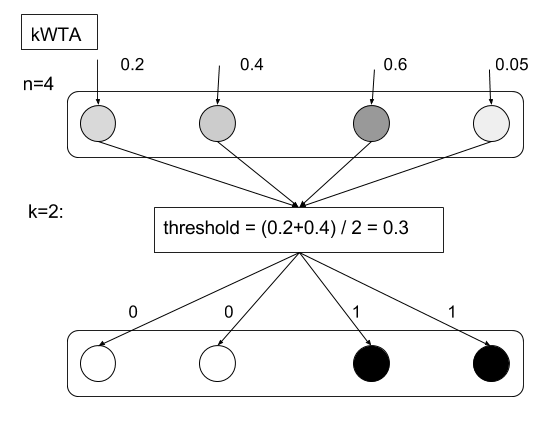
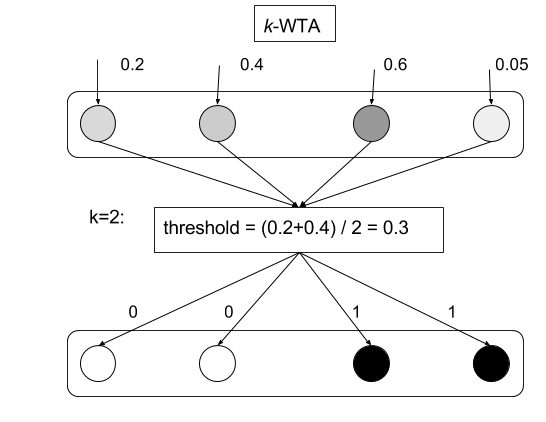
Refactored some captions, fixed synaptic cleft figure.

diff --git a/chapter2.tex b/chapter2.tex
@@ -32,7 +32,7 @@ Although this type of segmentation works well, it is still very similar to the f
 \section{Computational neuroscience}
 
 At the other end of the scale of neural networks, used to study emergent behaviour, we have computational neuroscience. In this discipline, Hebbian learning is often seen as the elected learning mechanism, particularly when it comes to the modeling of short-term memory, as it is generally regarded to be fairly biologically realistic, and results in fast convergence in the computational models (one-shot learning is possible, and sometimes occurs in the model which is outlined in chapter \ref{chpt:existing-models}). 
-Another aspect which may regarded as more biologically realistic is the algorithm k-winners-takes-all (kWTA), where the plausiblity arises from regarding it as implementing lateral inhibition. In biological networks, lateral inhibition may occur due to inhibitory neurons suppressing the activation of other neurons \citep{Rolls1998chpt1}; thus the term long-term depression. As for kWTA; the k-winners may be regarded as inhibiting the neighbouring neurons of the layer (though not necessarily in the long term). Note that the algorithmic approach diverges from the biological in that lateral inhibition may be arbitrary, and for a fixed number of k neurons in kWTA, whereas the brain is not likely to implement such a hard firing rate threshold (number k). Furthermore, depending on the implementation, activation values may be fixed, and possibly binary in the algorithmic approach of lateral inhibition; kWTA.
+Another aspect which may regarded as more biologically realistic is the algorithm k-winners-takes-all ($k$-WTA), where the plausiblity arises from regarding it as implementing lateral inhibition. In biological networks, lateral inhibition may occur due to inhibitory neurons suppressing the activation of other neurons \citep{Rolls1998chpt1}; thus the term long-term depression. As for $k$-WTA; the k-winners may be regarded as inhibiting the neighbouring neurons of the layer (though not necessarily in the long term). Note that the algorithmic approach diverges from the biological in that lateral inhibition may be arbitrary, and for a fixed number of k neurons in $k$-WTA, whereas the brain is not likely to implement such a hard firing rate threshold (number k). Furthermore, depending on the implementation, activation values may be fixed, and possibly binary in the algorithmic approach of lateral inhibition; $k$-WTA.
 
 %\subsection{Background}
 While it is assumed that the reader is familiar with neural networks within AI, it is not assumed that the reader has any prior knowledge within neuroscience. Therefore I will present an overview of the neuroscientific concepts used in this thesis, with the aim of sufficiently covering the neuroscientific background knowledge that is used in this thesis.
@@ -53,8 +53,8 @@ From this short outline of synaptic communication, it is possible to see how bio
 
 \begin{figure}
     \centering
-    \includegraphics[width=12cm]{fig/synaptic-cleft.jpg}
-    \caption{Illustrating a synaptic cleft in which two neurons are connected. Note that the axon of one of the neurons has released neurotransmitters, which may either excite or inhibit the receiving neuron after these neurotransmitters have bound to the receptors of its dendrite.}
+    \includegraphics[width=12cm]{fig/synaptic-cleft}
+    \caption{Illustrating \textbf{a synaptic cleft} in which two neurons are connected. Note that the axon of one of the neurons has released neurotransmitters, which may either excite or inhibit the receiving neuron after these neurotransmitters have bound to the receptors of its dendrite.}
     \label{fig:synaptic-cleft}
 \end{figure}
 
@@ -90,11 +90,11 @@ Fourthly, the hippocampus has been found to back-project its activity from CA1 t
 % Outlined specifics of how the outlined hippocampal functions may be algorithmically attained and/or biologically occur AFTER presenting material on neural network computation in general?
 It may now begin to become clear to the reader how certain aspects of hippocampal function may be algorithmically described, and thus how certain aspects of cognition may emerge from implemented models. Furthermore, these aspects may then be analyzed both from a connectionist perspective with regarsd to cognition, and also with regards to the information processing capabilities that the emerging phenomena gives or may give rise to. A short outline has now been presented on how hippocampal functionality is connected to psychology and neuroscience. I will proceed to connect these aspects to computational modeling and algorithmics below.
 
-% Elaborate on kWTA and connect it to feature detection/discovery (and self-organization)? Redundance reduction?
+% Elaborate on $k$-WTA and connect it to feature detection/discovery (and self-organization)? Redundance reduction?
 % Discuss orthogonalization in terms of simplification and losing out on information. Diluted connectivity?
-% PCA bio. implausible, kWTA more realistic.
-One of the key components in the hippocampal neural processing as outlined by \cite{Hattori2014} in his model, is using kWTA in the layer-wise processing. He notes that kWTA seems to enable a much more sophisticated type of pattern-separation than ordinary transfer functions. This matches the observations and findings as outlined by \cite{Rolls1998chpt4, Rolls1998chpt6}. Namely that k-winners-takes-all will reduce overlap in that only the k most prominent units/neurons will dominate/inhibit the other neurons in a layer, and furthermore enable a more powerful separation of overlapping inputs. It should be emphasised that while kWTA may resemble lateral inhibition, selecting an arbitrary value for the parameter \textit{k}, quickly becomes biologically implausible. Therefore, computational models often rely on empirical studies of levels of activation within different brain regions in order to attain more realistic models. One example is the model which is outlined below, where \cite{Hattori2014}, building upon the work of \cite{Wakagi2008}, finds that selecting k such that the layer-wise firing rate in his hippocampal module corresponds to the biologically observed firing rates, interestingly significantly improves the model performance compared to other k-values. I would like to emphasise that selecting only k winners for a layer also leads to a quicker convergence and faster learning within the network, because weight updates may be performed only by the nodes which are deemed relevant with regard to the current pattern. In a sense, less "noise" from the other neurons is present, and a more clear correlation and possibly pattern association is likely to be present for the network to extract. This may enable a network to reduce the redundance during feature or pattern correlation extraction, both functioning as an orthogonalizer quite similarly to principal components analysis (PCA), which extracts the most principal components of a data-set - only that kWTA is more biologically realistic, and is able to perform a more separated type of extraction by activating different neurons.
-Lastly, it is worth mentioning that while kWTA may reduce overlap and separate inputs, it will also tend to result in similar patterns activating the same set of neurons. Therefore, kWTA may also be regarded as preprocessing which will categorize patterns into categories of similar types, \citep{Rolls1998chpt1}. In other words, while kWTA enables lots of interesting information processing capabilities, the reader should bear in mind that this does not imply that the approach is not prone to some aspects of simplification due to orthogonalization - i.e. a type of diluted connectivity when using kWTA due to reasons such as too complex input data, sub-optimal convergence due to the initial random weight configuration, or simply basins of attraction being too close to one another in space, leading to divergence or spurious pattern extraction.
+% PCA bio. implausible, $k$-WTA more realistic.
+One of the key components in the hippocampal neural processing as outlined by \cite{Hattori2014} in his model, is using $k$-WTA in the layer-wise processing. He notes that $k$-WTA seems to enable a much more sophisticated type of pattern-separation than ordinary transfer functions. This matches the observations and findings as outlined by \cite{Rolls1998chpt4, Rolls1998chpt6}. Namely that k-winners-takes-all will reduce overlap in that only the k most prominent units/neurons will dominate/inhibit the other neurons in a layer, and furthermore enable a more powerful separation of overlapping inputs. It should be emphasised that while $k$-WTA may resemble lateral inhibition, selecting an arbitrary value for the parameter \textit{k}, quickly becomes biologically implausible. Therefore, computational models often rely on empirical studies of levels of activation within different brain regions in order to attain more realistic models. One example is the model which is outlined below, where \cite{Hattori2014}, building upon the work of \cite{Wakagi2008}, finds that selecting k such that the layer-wise firing rate in his hippocampal module corresponds to the biologically observed firing rates, interestingly significantly improves the model performance compared to other k-values. I would like to emphasise that selecting only k winners for a layer also leads to a quicker convergence and faster learning within the network, because weight updates may be performed only by the nodes which are deemed relevant with regard to the current pattern. In a sense, less "noise" from the other neurons is present, and a more clear correlation and possibly pattern association is likely to be present for the network to extract. This may enable a network to reduce the redundance during feature or pattern correlation extraction, both functioning as an orthogonalizer quite similarly to principal components analysis (PCA), which extracts the most principal components of a data-set - only that $k$-WTA is more biologically realistic, and is able to perform a more separated type of extraction by activating different neurons.
+Lastly, it is worth mentioning that while $k$-WTA may reduce overlap and separate inputs, it will also tend to result in similar patterns activating the same set of neurons. Therefore, $k$-WTA may also be regarded as preprocessing which will categorize patterns into categories of similar types, \citep{Rolls1998chpt1}. In other words, while $k$-WTA enables lots of interesting information processing capabilities, the reader should bear in mind that this does not imply that the approach is not prone to some aspects of simplification due to orthogonalization - i.e. a type of diluted connectivity when using $k$-WTA due to reasons such as too complex input data, sub-optimal convergence due to the initial random weight configuration, or simply basins of attraction being too close to one another in space, leading to divergence or spurious pattern extraction.
 
 \begin{figure}
     \centering
@@ -126,7 +126,7 @@ This brings us toward the importance of other qualities that are present in hipp
 While the classic XOR-problem is a matter of linear separability, solvable by the introduction of non-linear transfer functions in FFBP ANNs, issues are not quite as trivial in connectionist hippocampus-models. When it comes to auto-associative memory, the forming of spurious basins of attraction (see figure \ref{fig:simple-basin}) in auto-associative networks may be addressed by qualities which are introduced by the hippocampus, and more specifically largely by the dentate granule cells of the dentate gyrus (DG), which project to cornu ammonis region 3 (CA3) (which is believed to constitute an auto-associative network in the HPC), both receiving projections from the entorhinal cortex (EC).
 
 The dentate granule cells of the DG have been empirically observed in the rat hippocampus to be nearly approximately a sevenfold relative to the number of pyramidal cells which project to it from the entorhinal cortex \citep{Rolls1998chpt6}. Furthermore, while the firing rate of the EC has been observed to be about 10 \%, the firing rate of the dentage granule cells have been observed to be approximately 1 \% \citep{Rolls1998chpt6}.
-Largely due to these facts, it is hypothesized that the role of these cells is to reduce overlap between and to separate overlapping inputs using inhibitory interneurons, i.e. kWTA algorithmically speaking. Furthermore, the low contact between the dentate granule cells and the CA3-cells (i.e. low firing rate), referred to as expansion encoding \citep{Rolls1998chpt6}, also necessarily leads to a type of sparsification, in addition to further orthogonalization resulting from kWTA in the expanded layer. Furthermore, it is believed that the dentate granule cells are strongly connected to the CA3-cells, which receive projections from EC, DG-cells, and recurrently from itself. This would then enable the DG-cells to strongly influence synaptic modification of the CA3-cells during learning, further enforcing new pattern correlations to be considered and possibly learnt \citep{Rolls1998chpt6}.
+Largely due to these facts, it is hypothesized that the role of these cells is to reduce overlap between and to separate overlapping inputs using inhibitory interneurons, i.e. $k$-WTA algorithmically speaking. Furthermore, the low contact between the dentate granule cells and the CA3-cells (i.e. low firing rate), referred to as expansion encoding \citep{Rolls1998chpt6}, also necessarily leads to a type of sparsification, in addition to further orthogonalization resulting from $k$-WTA in the expanded layer. Furthermore, it is believed that the dentate granule cells are strongly connected to the CA3-cells, which receive projections from EC, DG-cells, and recurrently from itself. This would then enable the DG-cells to strongly influence synaptic modification of the CA3-cells during learning, further enforcing new pattern correlations to be considered and possibly learnt \citep{Rolls1998chpt6}.
 
 % Connect to DNMM.
 % =================================================================================================
@@ -180,7 +180,7 @@ Memory recall in the neocortical network may be performed by presenting input pa
 \begin{figure}
 \centering
 \includegraphics[width=10cm]{fig/hattori2010_model_structure}
-\caption{(a) represents the hippocampal module, whereas (b) represents the neocortical module. Note that the hippocampal module implements a Hopfield network, from which seemingly chaotic behaviour emerges when combined with the neuronal dynamics. Adapted from Hattori, M. (2014). 'A biologically inspired dual-network memory model for reduction of catastrophic forgetting', \textit{Neurocomputing}, \textbf{134}: 262-268. Adapted with permission.}
+\caption{Illustrating \textbf{\citeauthor{Hattori2010}'s (\citeyear{Hattori2010}) dual-network memory model}. (a) represents the hippocampal module, whereas (b) represents the neocortical module. Note that the hippocampal module implements a Hopfield network, from which seemingly chaotic behaviour emerges when combined with the neuronal dynamics. Adapted from Hattori, M. (2014). 'A biologically inspired dual-network memory model for reduction of catastrophic forgetting', \textit{Neurocomputing}, \textbf{134}: 262-268. Adapted with permission.}
 \label{fig:hattori2010_model_structure}
 \end{figure}
 
@@ -222,9 +222,9 @@ To some extent, a Hopfield net can be said to have a graceful degradation; i.e. 
 \subsubsection{\cite{Hattori2014}}
 \cite{Hattori2014} proposes a more biologically realistic dual-network memory model, based upon, and outperforming the model outlined above based on several experiments. In the novel model, \cite{Hattori2014} proposes a significant architectural change in the hippocampal network, now modeling a more complex hippocampal network model, while the neocortical module remains the same. The hippocampal module consists of five layers, the three middle layers being inspired by different parts of the hippocampus; namely the entorhinal cortex, dentate gyrus, CA3, and two enclosing input and output layers. See figure \ref{fig:hattori_2014_model} for the topological structure of the novel model of \cite{Hattori2014}. 
 Considering the neuroscientific background that is outlined above, the reasons for the significant performance increase can now be addressed by considering the different layers' algorithmic properties. 
-Shortly put, the hippocampal module can be described as a competitive network, using kWTA in all layers. Furthermore, sparsification results from partially connected layers, as well as from expansion encoding, i.e. a significant increase in the layer size relative to the preceding projecting layer, in the DG-layer. Note that the ratios between the DG-layer and the EC- and CA3-layer is the same as the ratios in the rat hippocampus, with the number of modeled neurons being about one thousandth. This results in an expansion encoding in the DG-layer, potentially recoding the neural activation values in the succeeding auto-associative layer of CA3, resulting in separated, yet initially similar patterns. It is worth mentioning that the DG model also implements neuronal turnover, which may further reduce overlap between inputs, contributing to the learning of separate new, yet similar patterns. Further model details are outlined below.
+Shortly put, the hippocampal module can be described as a competitive network, using $k$-WTA in all layers. Furthermore, sparsification results from partially connected layers, as well as from expansion encoding, i.e. a significant increase in the layer size relative to the preceding projecting layer, in the DG-layer. Note that the ratios between the DG-layer and the EC- and CA3-layer is the same as the ratios in the rat hippocampus, with the number of modeled neurons being about one thousandth. This results in an expansion encoding in the DG-layer, potentially recoding the neural activation values in the succeeding auto-associative layer of CA3, resulting in separated, yet initially similar patterns. It is worth mentioning that the DG model also implements neuronal turnover, which may further reduce overlap between inputs, contributing to the learning of separate new, yet similar patterns. Further model details are outlined below.
 
-% The DNMM of \cite{Hattori2014} seems like a competitive network, having sparsification through in-EC and kWTA, and to some extent orthogonalization from the DG-layer through expansion encoding, as well as neuronal turnover. (P. 54)
+% The DNMM of \cite{Hattori2014} seems like a competitive network, having sparsification through in-EC and $k$-WTA, and to some extent orthogonalization from the DG-layer through expansion encoding, as well as neuronal turnover. (P. 54)
 
 \begin{figure}
 \centering
@@ -255,9 +255,9 @@ However, between the EC and DG, EC and CA3, and DG and CA3 parts, Oja's rule is 
 \begin{equation}\label{ojas_rule}
     \omega_{i,j} = \omega_{i,j}(t) + \lambda u_j (u_i - u_j \omega_{i,j}(t)),
 \end{equation}
-where $\lambda$ is the learning rate for the Oja neurons. Note that the input and output layer neurons are bipolar ($\pm 1$), whereas the other neurons are binary. Every region is trained by a k-winners-take-all (kWTA) approach, in which a fixed number of the $k$ most active neurons' activation values are propagated throughout the neurons' synapses. Neuronal activity is determined by firing frequency. Interestingly, \citep{Hattori2014} notes that the non-linear separation of kWTA seems to be far more powerful than that of non-linear transfer functions. Furthermore, he notes that non-linear transfer functions may actually reduce the performance of kWTA.
+where $\lambda$ is the learning rate for the Oja neurons. Note that the input and output layer neurons are bipolar ($\pm 1$), whereas the other neurons are binary. Every region is trained by a k-winners-take-all ($k$-WTA) approach, in which a fixed number of the $k$ most active neurons' activation values are propagated throughout the neurons' synapses. Neuronal activity is determined by firing frequency. Interestingly, \citep{Hattori2014} notes that the non-linear separation of $k$-WTA seems to be far more powerful than that of non-linear transfer functions. Furthermore, he notes that non-linear transfer functions may actually reduce the performance of $k$-WTA.
 
-When it comes to the DG-layer of the model, it consists of 1600 artificial neurons, whereas the EC consists of 240, and the CA3 of 480. The input and output layers can be set to an arbitrary number of neurons, and are in most experiments set to 49 neurons each. Because of the ratio between the DG-layer and the EC-layer, the DG performs a significant expansion encoding. This may enable more intricate pattern correlations to be extracted by having a multiple number of neurons available for computation when compared to the layer which projects its output to the layer. Furthermore, it is believed that this constitutes a mechanism for decorrelating input patterns \citep{Rolls1998chpt2}, enabling the storage of similar, yet separate memories. Along with kWTA, which biologically resembles lateral inhibition, it has been shown that including these mechanisms in a hippocampus-model increases the number of patterns that the model may store \citep{Wakagi2008, Hattori2014}. It is worth noting that while \cite{Hattori2014} employs the DG-layer in order to enable pattern decorrelation in the hippocampal module, this is only the case during learning, and the layer is not used during recall. The justification is that the DG is thought to function primarily as a pattern separator during learning. Biologically speaking, the DG is hypothesized to be able to strongly influence the synaptic modification in the CA3 during learning \citep{Rolls1998chpt6}.
+When it comes to the DG-layer of the model, it consists of 1600 artificial neurons, whereas the EC consists of 240, and the CA3 of 480. The input and output layers can be set to an arbitrary number of neurons, and are in most experiments set to 49 neurons each. Because of the ratio between the DG-layer and the EC-layer, the DG performs a significant expansion encoding. This may enable more intricate pattern correlations to be extracted by having a multiple number of neurons available for computation when compared to the layer which projects its output to the layer. Furthermore, it is believed that this constitutes a mechanism for decorrelating input patterns \citep{Rolls1998chpt2}, enabling the storage of similar, yet separate memories. Along with $k$-WTA, which biologically resembles lateral inhibition, it has been shown that including these mechanisms in a hippocampus-model increases the number of patterns that the model may store \citep{Wakagi2008, Hattori2014}. It is worth noting that while \cite{Hattori2014} employs the DG-layer in order to enable pattern decorrelation in the hippocampal module, this is only the case during learning, and the layer is not used during recall. The justification is that the DG is thought to function primarily as a pattern separator during learning. Biologically speaking, the DG is hypothesized to be able to strongly influence the synaptic modification in the CA3 during learning \citep{Rolls1998chpt6}.
 One of the final keys to attaining a successful dual-network memory model is the introduction of neuronal turnover in the dentate gyrus. Neuronal turnover is the birth and extinction of a percentage $\beta \%$ of the neurons, here in the DG. Note, however, that while this is believed to occur to a very low degree biologically in the DG, a very high rate of $\beta = 50 \%$ is employed by \cite{Hattori2014}, with turnover after every training set. Possible reasons for this and associated implications, related to plasticity and convergence, is discussed earlier in this section, in that a high level of randomness, or noise, needs to be introduced in the artificial model, as it is less plastic due to mathematical approximations and model simplification relative to the biological system which it is inspired by. \cite{Hattori2014} demonstrates that input patterns become less similar when introducing neuronal turnover, which in turn drastically increases the number of patterns that may be stored in the HPC module. This demonstrates that neuronal turnover is a crucial mechanism for separation of similar patterns in the model, and possibly key to learning to distinguish between similar, yet separate memories and patterns.
 
 Memory recall may be performed in the hippocampal network by chaotic recall after learning, i.e. presenting random input to the hippocampal model, waiting until it reaches some convergence criterion such as having a stable output for a number of time-steps, and considering the current input-output pattern as a 'chaotically' recalled memory, representing a learned memory of the short-term memory model. 
@@ -265,7 +265,7 @@ Memory recall may be performed in the hippocampal network by chaotic recall afte
 % Principal cells biologically mostly excitatory; mutual inhibition implemented by inhibitory interneurons. (GABA)
 Such a mechanism for pseudopattern extraction has been shown to create pseudopatterns that enable the neocortical network to extract the underlying function, i.e. mapping, of the pattern-association. It has further been hypothesized that a similar mechanism may be implemented by the brain \citep{French2001, Ans1997}. Note that \cite{French2001} found consolidation speed to be of no importance when it comes to retroactive network interference. Thus making learning through pseudopatterns the mechanism which itself enables the interleaving of several memories, as well as storage of them. This in turn makes the quality of the generated pseudopatterns a key key component in memory consolidation.
 When it comes to the biologically implausible convergence criterion for when pseudopatterns should be generated, and memories consolidated, it could be hypothesized that when encountering a certain stability, the brain could release certain neurotransmitters that promote learning, such as glutamate, GABA, or dopamine, enabling memory consolidation. While remaining only a hypothesis, note that the algorithmic criterion for pseudopattern generation and memory consolidation is an aspect where the model diverges significantly from being the biological mechanisms from which the model is inspired.
-Interestingly, when recalling previous memories in the HPC-model without using the DG-layer of the model, memories may yet be successfully distinguished. It seems that using the expansion encoding in the DG-layer together with kWTA enables the model to extract the different properties in the similar pattern-associations. An observation which demonstrates that this mechanism is not sufficient, however, is the fact that hetero-associative patterns are not as easily extracted. The question remains whether they may still be as easily separated, only that the more complex function-mapping is more computationally heavy to extract.
+Interestingly, when recalling previous memories in the HPC-model without using the DG-layer of the model, memories may yet be successfully distinguished. It seems that using the expansion encoding in the DG-layer together with $k$-WTA enables the model to extract the different properties in the similar pattern-associations. An observation which demonstrates that this mechanism is not sufficient, however, is the fact that hetero-associative patterns are not as easily extracted. The question remains whether they may still be as easily separated, only that the more complex function-mapping is more computationally heavy to extract.
 
 % While using two reverberating neural networks that are trained using gradient-descent remains biologically implausible and not that relevant for the current approach as outlined here, it is worth noting that a similar mechanism as described by \cite{French1997} for re-instantiating a previously learned pattern to the hippocampal network if present in the neocortical network, would indeed be interesting as an alternative model for memory recall. An outline of how the hippocampus' operations may constitute memory is contained in the discussion in chapter \ref{chpt:discussion}.
 
@@ -282,7 +282,7 @@ Biologically, the experiment in \citep{Hattori2014, Hattori2010} is an adapted v
 
 % Lateral inhibition
 
-% kWTA - separation, segmentation, etc.
+% $k$-WTA - separation, segmentation, etc.
 
 % Interference conditions? Comparison with humans?
 

diff --git a/chapter3.tex b/chapter3.tex
@@ -26,11 +26,11 @@ Note, however, that as the library provides a high-level abstraction for generat
 \begin{figure}
 \centering
 \includegraphics[width=12cm]{fig/unopt_opt_theano_graph}
-\caption{Graph manipulation of tensors in Theano during the optimization and compilation process of an expression such as $y = A^2$. Note that the left-most graph is the graph which has been constructed directly from symbolic differentiation, whereas the right-most hast been optimized before compilation.}
+\caption{\textbf{Graph manipulation of tensors in Theano} during the optimization and compilation process of an expression such as $y = A^2$. Note that the left-most graph is the graph which has been constructed directly from symbolic differentiation, whereas the right-most hast been optimized before compilation.}
 \label{fig:theano_graph_demo}
 \end{figure}
 
-In order to use Theano, certain dependencies need to be setup. These are fairly straightforward when it comes to compiling to C-code for CPU-execution. In a preliminary study for this thesis, I setup Theano for use with a GPU on a system with an NVIDIA card, using Ubuntu 14.04 LTS. I consulted the guide found on \citep{LISA-lab2015b} to obtain installation instructions for doing so. In doing so I found that kWTA requires the dual-network memory model to be synchronized, thus requiring transferring control to the CPU and interpreter, including memory transfer from the GPU to the CPU. Therefore, running the model on the GPU did not provide for any substantial run-time performance gain for the HPC-network. Therefore I decided to target the CPU, particularly when it comes to the HPC-module, which may only be executed on the CPU in its current form. Running only the neocortical network on a data-set would, however, be far more efficient using the GPU. In fact, the compiler may target the GPU if the framework for it is setup, and the Theano flags allows a hybrid approach (i.e. no device parameters are set).
+In order to use Theano, certain dependencies need to be setup. These are fairly straightforward when it comes to compiling to C-code for CPU-execution. In a preliminary study for this thesis, I setup Theano for use with a GPU on a system with an NVIDIA card, using Ubuntu 14.04 LTS. I consulted the guide found on \citep{LISA-lab2015b} to obtain installation instructions for doing so. In doing so I found that $k$-WTA requires the dual-network memory model to be synchronized, thus requiring transferring control to the CPU and interpreter, including memory transfer from the GPU to the CPU. Therefore, running the model on the GPU did not provide for any substantial run-time performance gain for the HPC-network. Therefore I decided to target the CPU, particularly when it comes to the HPC-module, which may only be executed on the CPU in its current form. Running only the neocortical network on a data-set would, however, be far more efficient using the GPU. In fact, the compiler may target the GPU if the framework for it is setup, and the Theano flags allows a hybrid approach (i.e. no device parameters are set).
 
 
 % ====================================== IMPLEMENTATION ===========================================
@@ -38,13 +38,13 @@ In order to use Theano, certain dependencies need to be setup. These are fairly 
 
 \subsection{Hippocampal model details}
 
-For the hippocampal network I instantiated shared theano variables, storing the values of vectors for the activation values, and matrices for the weights between the different layers. Topologically, it remains the same as illustrated previously in figure \ref{fig:hattori_2014_model}. In the hippocampal network, the first step of propagating values throughout the model is to simply multiply the activation values of the first layer with the associated weight matrix, representing its connections, storing the result in the subsequent layer; the EC-layer. After this operation, kWTA is performed. For all layers except for the CA3-layer, these operations are simply performed according to the following equations,
+For the hippocampal network I instantiated shared theano variables, storing the values of vectors for the activation values, and matrices for the weights between the different layers. Topologically, it remains the same as illustrated previously in figure \ref{fig:hattori_2014_model}. In the hippocampal network, the first step of propagating values throughout the model is to simply multiply the activation values of the first layer with the associated weight matrix, representing its connections, storing the result in the subsequent layer; the EC-layer. After this operation, $k$-WTA is performed. For all layers except for the CA3-layer, these operations are simply performed according to the following equations,
 
 \begin{equation}\label{eq:transfer_function_hpc}
     \textbf{x}_j = tanh (\frac{\textbf{x}_i \textbf{W}_{i,j}}{\epsilon}),
 \end{equation}
 
-where $\epsilon$ is a steepness parameter. Succeeding this straightforward propagation between the layers, using a common thresholding function, is setting the activation values in a binary fashion according to the k-WTA algorithm;
+where $\epsilon$ is a steepness parameter. Succeeding this straightforward propagation between the layers, using a common thresholding function, is setting the activation values in a binary fashion according to the $k$-WTA algorithm;
 
 \begin{equation}
     f(x_i, x_{threshold}) = \begin{cases}
@@ -53,10 +53,10 @@ where $\epsilon$ is a steepness parameter. Succeeding this straightforward propa
     \end{cases}
 \end{equation}
 
-where $x_{threshold}$ is calculated simply as $x_{threshold} = \frac{x_{k} + x_{k-1}}{2}$, where $x_k$ is the k-th largest activation value in the layer after action potantial potentiation according to equation \ref{eq:transfer_function_hpc}. For pseudocode on the k-WTA implementation, please see appendix C.
+where $x_{threshold}$ is calculated simply as $x_{threshold} = \frac{x_{k} + x_{k-1}}{2}$, where $x_k$ is the k-th largest activation value in the layer after action potantial potentiation according to equation \ref{eq:transfer_function_hpc}. For pseudocode on the $k$-WTA implementation, please see appendix C.
 \\
 
-When it comes to the CA3-layer, information is summed from several layers, after which the equations for chaotic neurons are used to attain the next $\eta$-values, which are finally sent through the thresholding function $tanh$ before kWTA is performed according to the firing rate of the layer. The equations, as outlined in chapter \ref{chpt:existing-models} in equations (\ref{hattori_next_output}, \ref{hattori_eta}, \ref{hattori_zeta}), are here given in vector form;
+When it comes to the CA3-layer, information is summed from several layers, after which the equations for chaotic neurons are used to attain the next $\eta$-values, which are finally sent through the thresholding function $tanh$ before $k$-WTA is performed according to the firing rate of the layer. The equations, as outlined in chapter \ref{chpt:existing-models} in equations (\ref{hattori_next_output}, \ref{hattori_eta}, \ref{hattori_zeta}), are here given in vector form;
 
 \begin{equation}\label{eq:eta_zeta_sum}
     \textbf{x}(t+1) = f\{ \vec{\eta}(t+1) + \vec{\zeta}(t+1) \}
@@ -83,14 +83,14 @@ Having shared variables store the current values for the eta- and zeta-vectors p
 \begin{figure}
     \centering
     \includegraphics[width=8cm]{fig/kWTA}
-    \caption{Illustrating kWTA for an arbitrary network layer of size $n=4$. Note that the figure depicts information flowing to  the same layer after binary thresholding has been performed. Furthermore, the circles, illustrating the neurons, are shadowed relative to their excitation, i.e. activation values, before and after k-WTA. This results only in completely excited, or completely depressed activation values after k-WTA (as 0 is the lowest value for internal neurons).}
-    \label{fig:kWTA_illustration}
+    \caption{Illustrating $k$-WTA for an arbitrary network layer of size $n=4$. Note that the figure depicts information flowing to  the same layer after binary thresholding has been performed. Furthermore, the circles, illustrating the neurons, are shadowed relative to their excitation, i.e. activation values, before and after $k$-WTA. This results only in completely excited, or completely depressed activation values after $k$-WTA (as 0 is the lowest value for internal neurons).}
+    \label{fig:k_WTA_illustration}
 \end{figure}
 
 \begin{figure}
     \centering
     \includegraphics[width=12cm]{fig/network_propagation}
-    \caption{Illustrating two network layers and the associated weight matrix. Note that the blue lines symbolise the input from the neurons for which the output produces the activation values flowing along the green lines, denoted by the vector, $\textbf{w}$.}
+    \caption{Illustrating \textbf{two network layers and their associated weight matrix}, representing the synapses and the synaptic connection strengths between the two layers. Note that the blue lines symbolise the input from the neurons for which the output produces the activation values flowing along the green lines, denoted by the vector, $\textbf{w}$.}
     \label{fig:network_layout}
 \end{figure}
 
@@ -205,7 +205,7 @@ For the code of the entire implementation, please see appendix C, which also con
 
 % Choices I have made in the implementation that remain unclear in the paper.
 
-% Enforce sparsity through weight updates corresponding only to the winners of kWTA - didn't work.
+% Enforce sparsity through weight updates corresponding only to the winners of $k$-WTA - didn't work.
 
 % (Alternatively: Through initializing synapses only for a given (local) percentage of neurons. - haven't tried, doesn't make sense since the above didn't work?)
 
